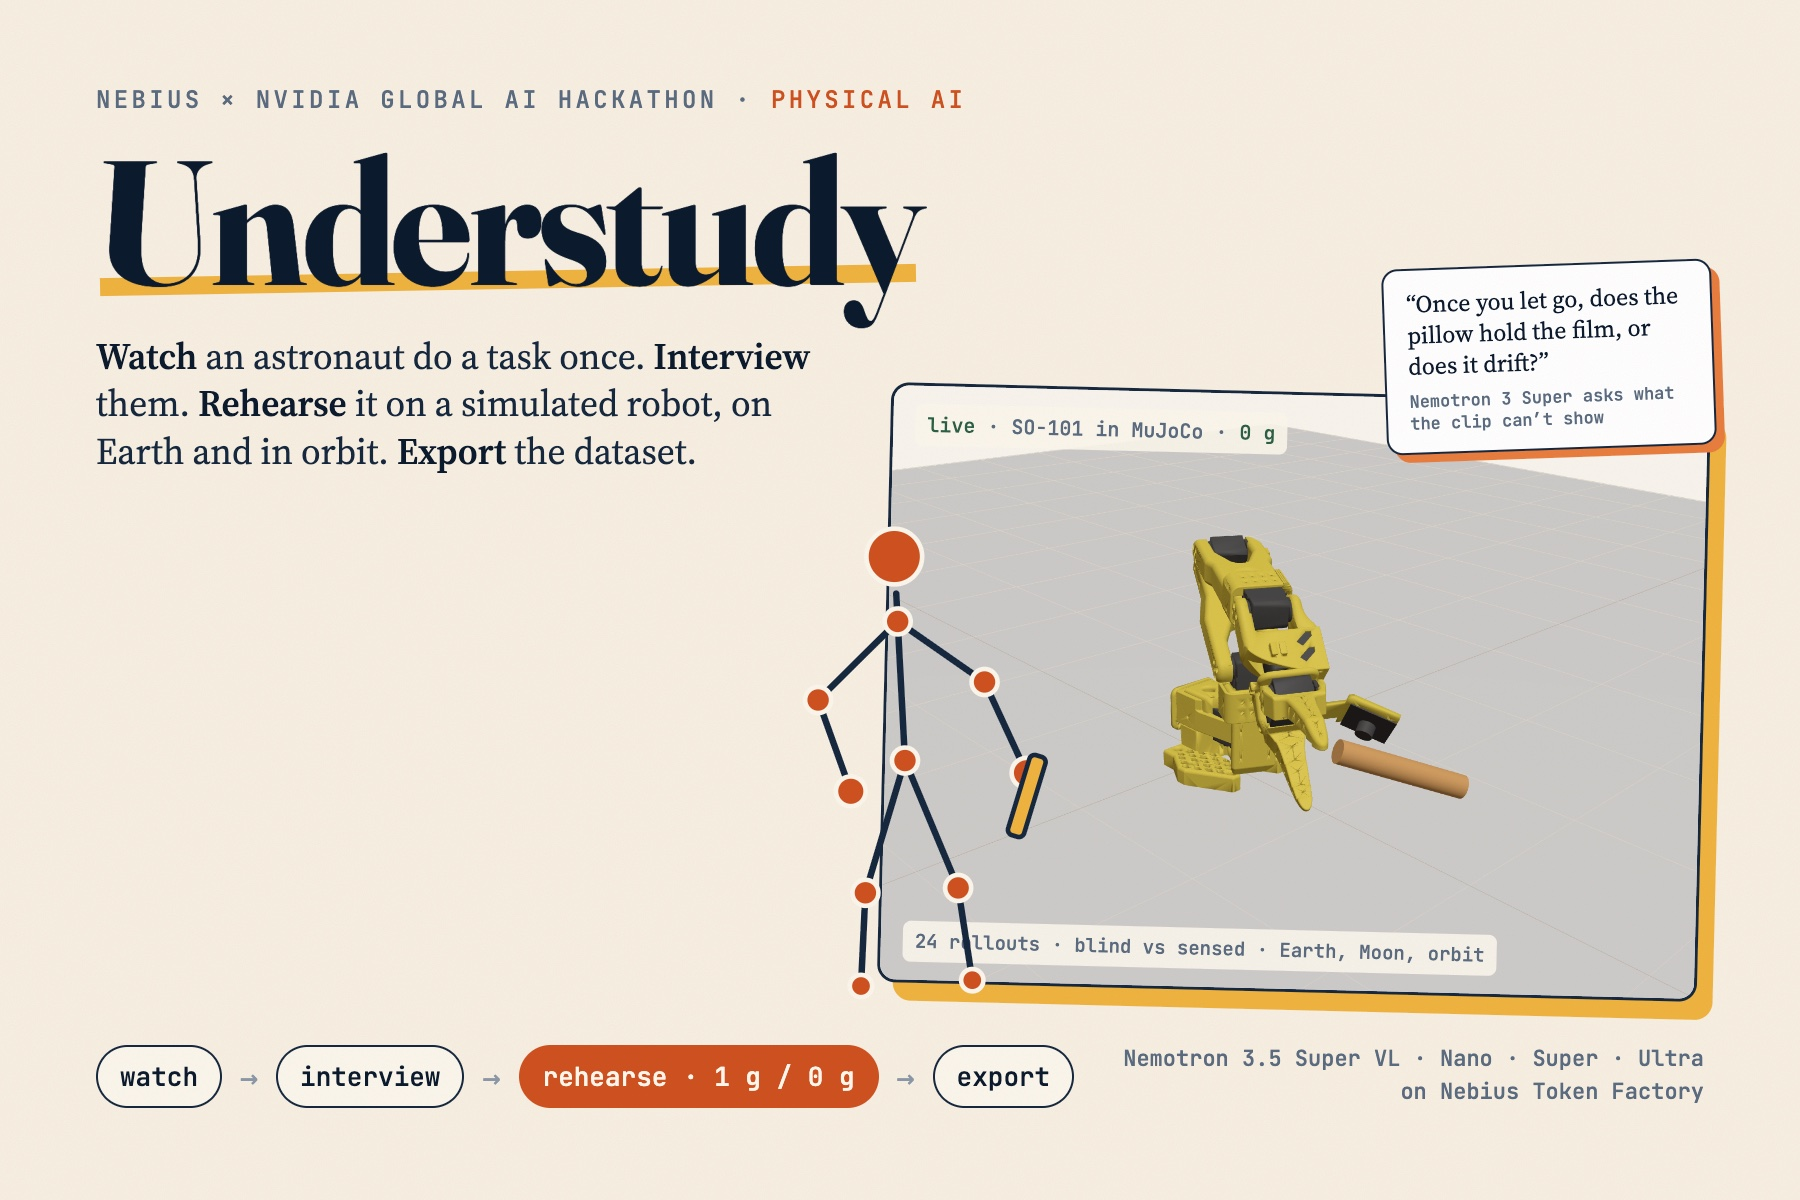
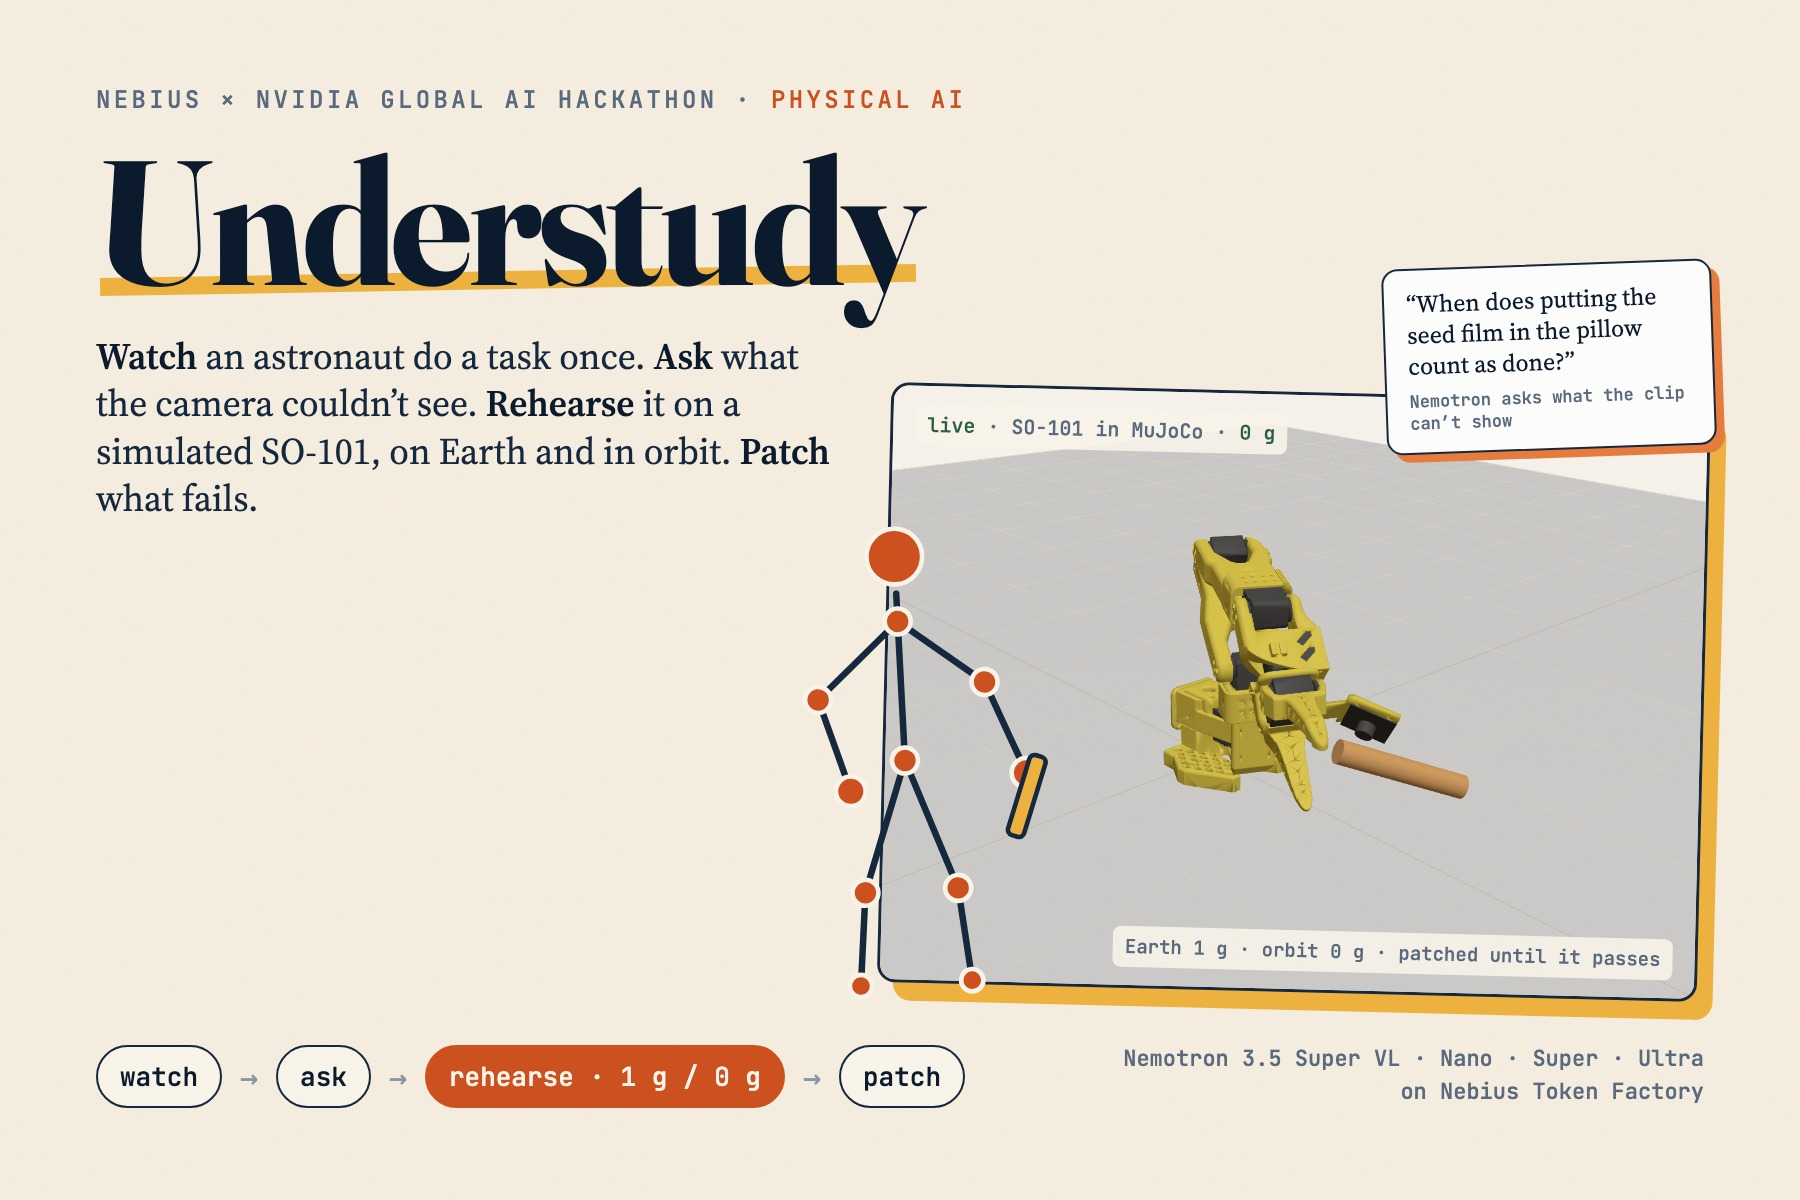
Submission: the thumbnail and the home page say only what the site does
Thumbnail: watch, ask what the camera couldn't see, rehearse a simulated SO-101 at 1 g and 0 g, patch what fails; no export, no blind vs sensed, no Moon. Its question is the one the seed-film session really asked. Images regenerated from the HTML.

Home page: a recorded showcase session costs 1 to 7 model calls, US$0.0007 to US$0.0059 (public/showcase/*.json), linked to /space; the old US$0.0375 included the saboteur and the reshoot list, which the site does not have.

— gib

diff --git a/docs/submission/thumbnail.html b/docs/submission/thumbnail.html
@@ -32,7 +32,7 @@
   .card img { width: 100%; height: 100%; object-fit: cover; object-position: 52% 62%; transform: scale(1.28); transform-origin: 52% 62%; filter: saturate(1.05) contrast(1.03); }
   .card .tag { position: absolute; left: 22px; top: 18px; font-family: var(--mono); font-size: 20px; color: var(--ink-soft); background: rgba(251,246,236,.9); padding: 8px 12px; border-radius: 8px; }
   .card .tag b { color: var(--ok); font-weight: 500; }
-  .card .foot { position: absolute; left: 22px; bottom: 18px; font-family: var(--mono); font-size: 19px; color: var(--ink-soft); background: rgba(251,246,236,.9); padding: 8px 12px; border-radius: 8px; }
+  .card .foot { position: absolute; right: 22px; bottom: 18px; font-family: var(--mono); font-size: 19px; color: var(--ink-soft); background: rgba(251,246,236,.9); padding: 8px 12px; border-radius: 8px; }
   /* the human: a drawn skeleton of pose landmarks, the "tokens" */
   .human { position: absolute; left: -175px; top: 90px; width: 390px; height: 520px; transform: rotate(-3deg); }
   .bubble { position: absolute; left: 500px; top: -128px; width: 330px; padding: 18px 22px; background: #fff; border: 2.5px solid var(--ink); border-radius: 16px; font-size: 24px; line-height: 1.3; color: var(--ink-deep); box-shadow: 8px 8px 0 var(--tangerine); transform: rotate(-2deg); }
@@ -44,13 +44,13 @@
 <div class="page">
   <div class="kicker">Nebius × NVIDIA Global AI Hackathon · <b>Physical AI</b></div>
   <h1><span class="u">Understudy</span></h1>
-  <p class="sub"><b>Watch</b> an astronaut do a task once. <b>Interview</b> them. <b>Rehearse</b> it on a simulated robot, on Earth and in orbit. <b>Export</b> the dataset.</p>
+  <p class="sub"><b>Watch</b> an astronaut do a task once. <b>Ask</b> what the camera couldn’t see. <b>Rehearse</b> it on a simulated SO-101, on Earth and in orbit. <b>Patch</b> what fails.</p>
 
   <div class="stage">
     <div class="card">
       <img src="arm.png" alt="SO-101 arm rehearsing in MuJoCo in the browser">
       <div class="tag"><b>live</b> · SO-101 in MuJoCo · <b>0 g</b></div>
-      <div class="foot">24 rollouts · blind vs sensed · Earth, Moon, orbit</div>
+      <div class="foot">Earth 1 g · orbit 0 g · patched until it passes</div>
     </div>
     <svg class="human" viewBox="0 0 420 560" fill="none" stroke-linecap="round" stroke-linejoin="round">
       <!-- skeleton lines -->
@@ -78,14 +78,14 @@
         <rect x="330" y="300" width="18" height="90" rx="6" fill="#efb340" stroke="#16283f" stroke-width="5" transform="rotate(20 339 345)"/>
       </g>
     </svg>
-    <div class="bubble">“Once you let go, does the pillow hold the film, or does it drift?”<small>Nemotron 3 Super asks what the clip can’t show</small></div>
+    <div class="bubble">“When does putting the seed film in the pillow count as done?”<small>Nemotron asks what the clip can’t show</small></div>
   </div>
 
   <div class="flow">
     <span class="chip">watch</span><span class="arrow">→</span>
-    <span class="chip">interview</span><span class="arrow">→</span>
+    <span class="chip">ask</span><span class="arrow">→</span>
     <span class="chip hot">rehearse · 1 g / 0 g</span><span class="arrow">→</span>
-    <span class="chip">export</span>
+    <span class="chip">patch</span>
   </div>
   <div class="corner">Nemotron 3.5 Super VL · Nano · Super · Ultra<br>on Nebius Token Factory</div>
 </div>

diff --git a/app/page.tsx b/app/page.tsx
@@ -3,9 +3,9 @@ import { recordings } from "@/lib/showcase/load";
 
 const MEASURED = "https://github.com/gibouu/understudy/blob/main/docs/MEASUREMENTS.md";
 
-/** Three numbers from docs/MEASUREMENTS.md, each linked to the section that measures it. */
+/** Three measured numbers, each linked to where it is measured: the showcase sessions, or a section of docs/MEASUREMENTS.md. */
 const NUMBERS = [
-  { figure: "US$0.04", text: "for a whole session of model calls, from watching the clip to the reshoot list (US$0.0375 on average over three runs).", href: `${MEASURED}#1-what-a-session-costs` },
+  { figure: "< US$0.01", text: "for a whole recorded session in the space showcase, every model call from the label to the last patch: 1 to 7 calls, US$0.0007 to US$0.0059.", href: "/space" },
   { figure: "94%", text: "of the failing rehearsals that can be fixed are fixed within five patches, by Super reading the simulator's notes and reasoning when it gets stuck. Measured on small probe programs of two to four knobs.", href: `${MEASURED}#8-the-self-improvement-loop` },
   { figure: "+28 points", text: "of first-try success on the Moon and in orbit, from rules learned on Earth and Mars, with the cheap model: 5% becomes 33%, against a matched control.", href: `${MEASURED}#8-the-self-improvement-loop` },
 ];
@@ -63,7 +63,7 @@ export default async function Home() {
       </section>
 
       <section className="mx-auto w-full max-w-6xl px-4 pb-16 sm:px-6">
-        <h2 className="mb-5 text-lg text-muted">Measured on 25 October 2026, not estimated:</h2>
+        <h2 className="mb-5 text-lg text-muted">Measured on 25 to 27 October 2026, not estimated:</h2>
         <ol className="grid gap-px overflow-hidden rounded-lg border-2 border-ink bg-ink md:grid-cols-3">
           {NUMBERS.map((n) => (
             <li key={n.figure} className="bg-paper">

diff --git a/docs/SUBMIT.md b/docs/SUBMIT.md
@@ -31,7 +31,7 @@ Checked against `main` on 27 October: the site has no Saboteur stage (no twelve-
 | Session cost (any answer, slide or caption) | $0.0375, 17 calls, which includes the saboteur and Ultra's reshoot list | the showcase sessions: 1 to 7 calls, $0.0007 to $0.0059 |
 | Testing instructions | "Try a sample clip", the cost ledger | the space showcase and Try it, as they are |
 
-Outside this file, still to fix by hand: the thumbnail (`docs/submission/thumbnail.html` and the `thumbnail.jpg` made from it) says "Export the dataset", "24 rollouts · blind vs sensed · Earth, Moon, orbit" and has an export chip; the home page (`app/page.tsx`) says a session runs "from watching the clip to the reshoot list". "Approach: no fine-tuning" stays true of the site, but if the fine-tune answer of PR #136 goes into Devpost the two must agree.
+Outside this file: the thumbnail (`docs/submission/thumbnail.html`, and the `thumbnail.jpg` / `thumbnail.png` made from it) and the home page (`app/page.tsx`) now say only what the site does: watch, ask, rehearse at 1 g and 0 g, patch; a recorded session costs 1 to 7 calls, US$0.0007 to US$0.0059. "Approach: no fine-tuning" stays true of the site, but if the fine-tune answer of PR #136 goes into Devpost the two must agree.
 
 ## Description (what, why, how)
 
